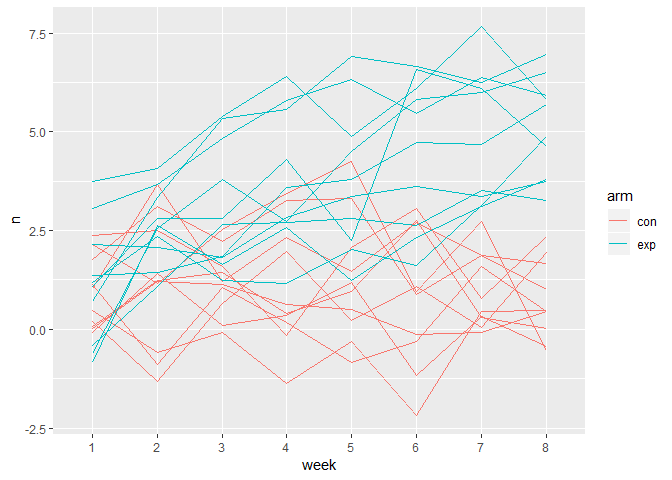
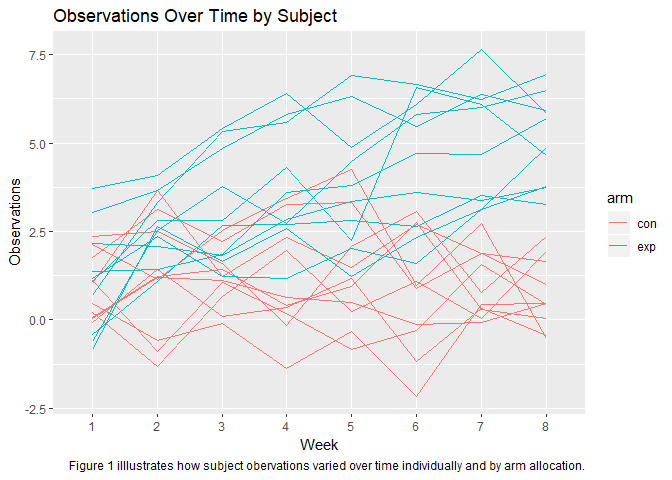
Writing on the differences observed between each group for Problem 1.2. Also, appropriately named and labelled the spaghetti plot.

diff --git a/p8105_hw5_bjl2150.md b/p8105_hw5_bjl2150.md
@@ -281,10 +281,16 @@ long_spaghetti = long_gather %>%
   
 ## It works!!!
 ggplot(long_spaghetti, aes(x = week, y = n, group = subject_id, color = arm)) + 
-  geom_path()
+  geom_path() +
+  labs(title = "Observations Over Time by Subject",
+    x = "Week",
+    y = "Observations",
+    caption = "Figure 1 illlustrates how subject obervations varied over time individually and by arm allocation.")
 ```
 
 ![](p8105_hw5_bjl2150_files/figure-markdown_github/unnamed-chunk-3-1.png)
+
+Figure 1 shows the observational trends by each subject in addition trends by arm allocation. The blue lines correspond to the exposed group while the red lines correspond to the control group. According to the figure, the control arm had a smaller number of observations over the weeks. Contrastingly, the experiment arm had higher numbers of observations over time. This figure suggests that the exeprimental arm may have had better outcomes as a result of trial drug that the research investigators were testing.
 
 Problem 2
 =========
